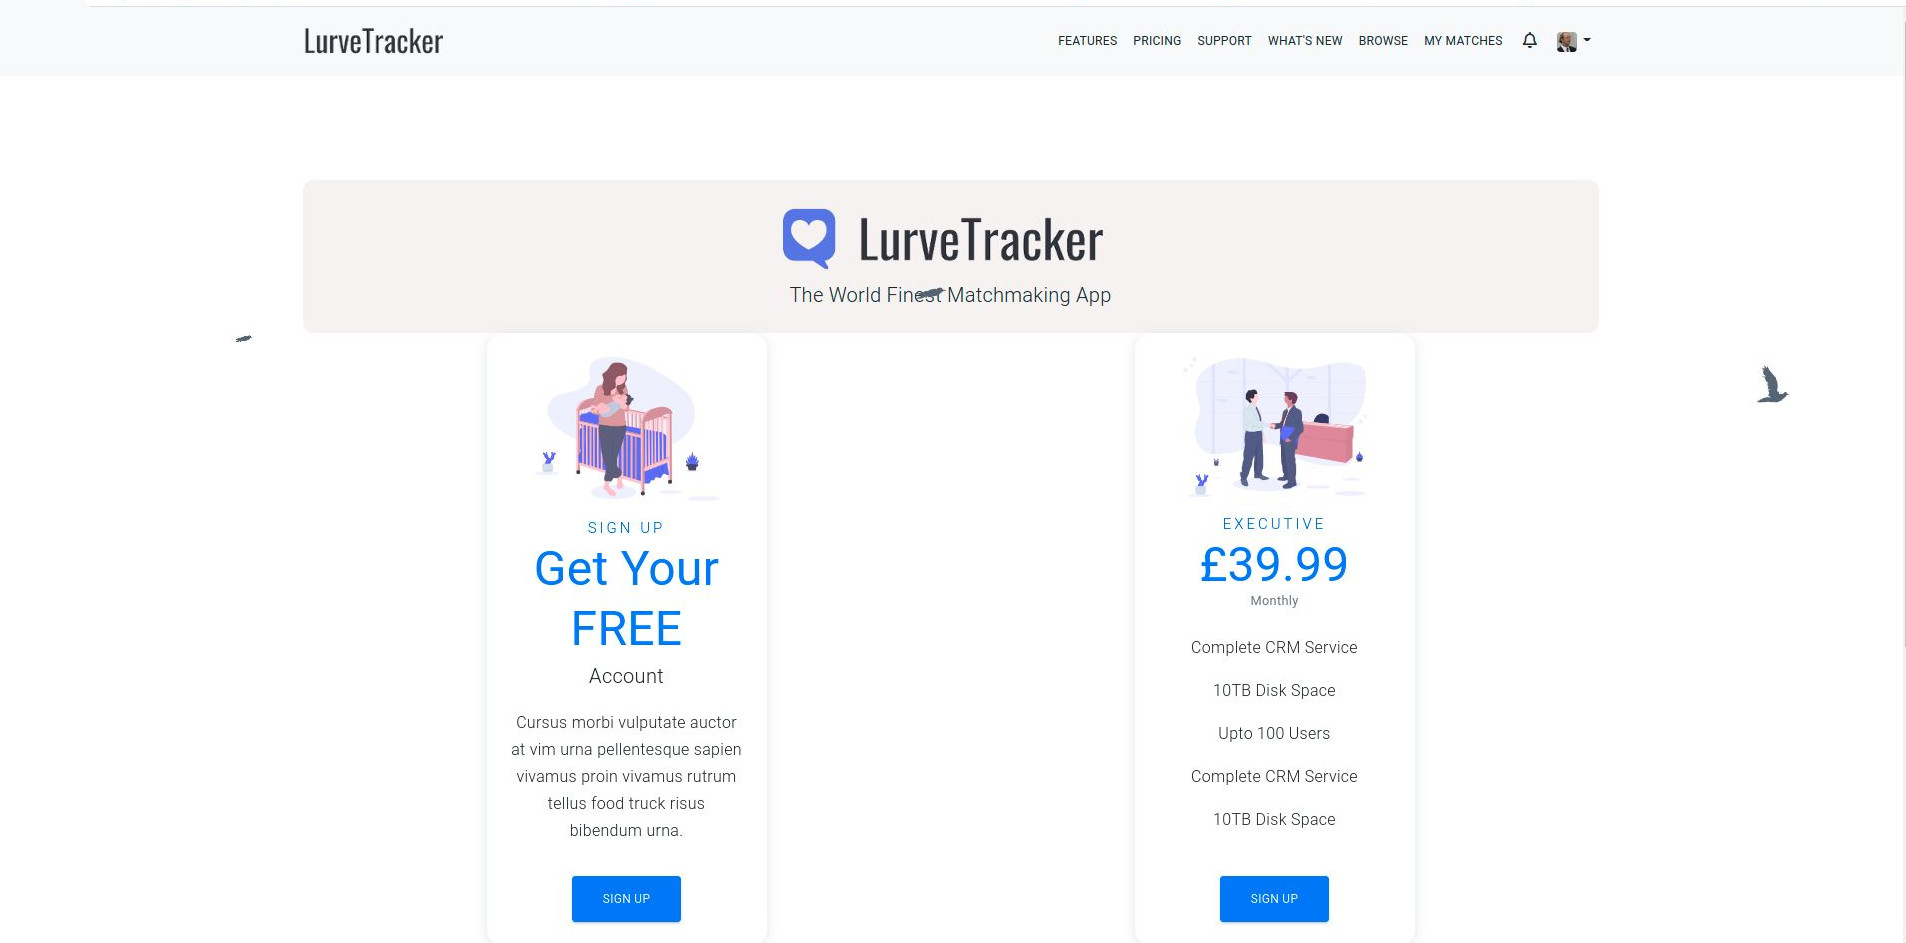
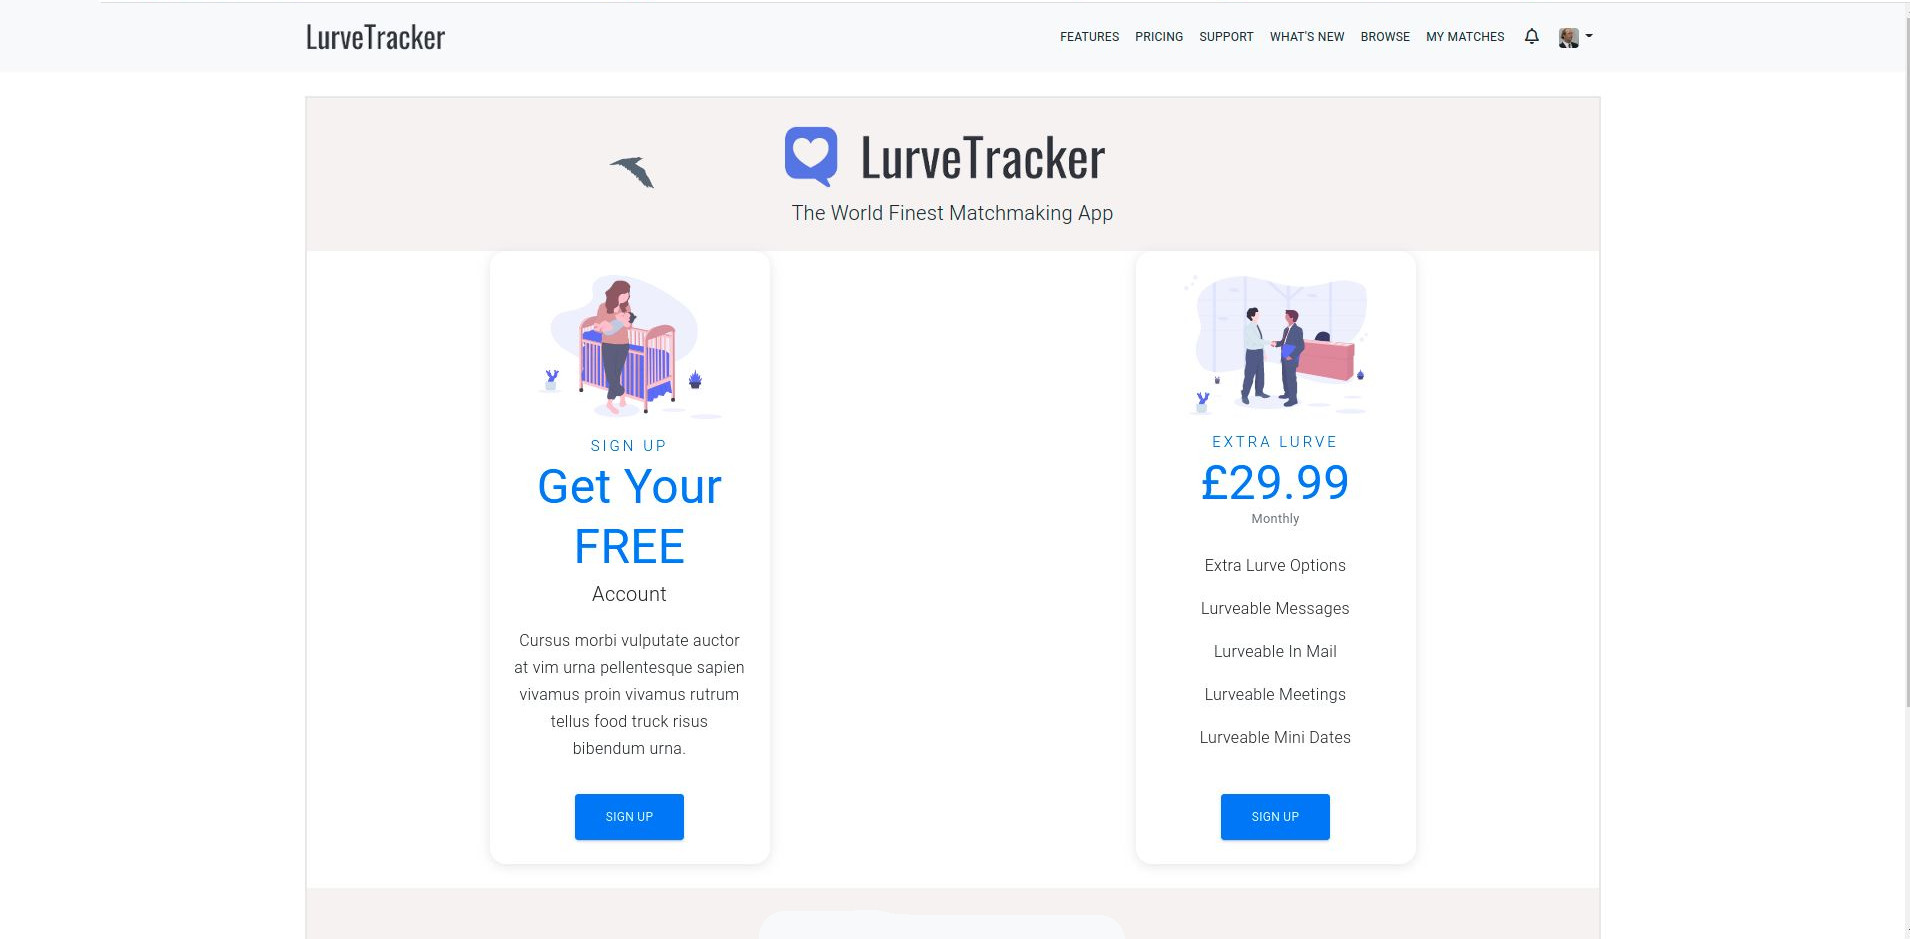
Extra Lurve

diff --git a/app/assets/stylesheets/application.scss b/app/assets/stylesheets/application.scss
@@ -15,6 +15,11 @@
     margin-right: 0;
   }
 }
+.section-front {
+  margin-bottom:30px;
+  border: solid 2px #e8e8e8;
+
+}
 body > main > div > section > div.container > div > div:nth-child(3) > div > div.card-action > button > a,
 body > main > div > section > div.container > div > div:nth-child(2) > div > div.card-action > button > a {
   color:white;
@@ -27,5 +32,4 @@ body > .alert {
   background:#f5f2f2;
   padding-top: 20px;
   padding-bottom: 5px;
-  border-radius: 10px;
 }
